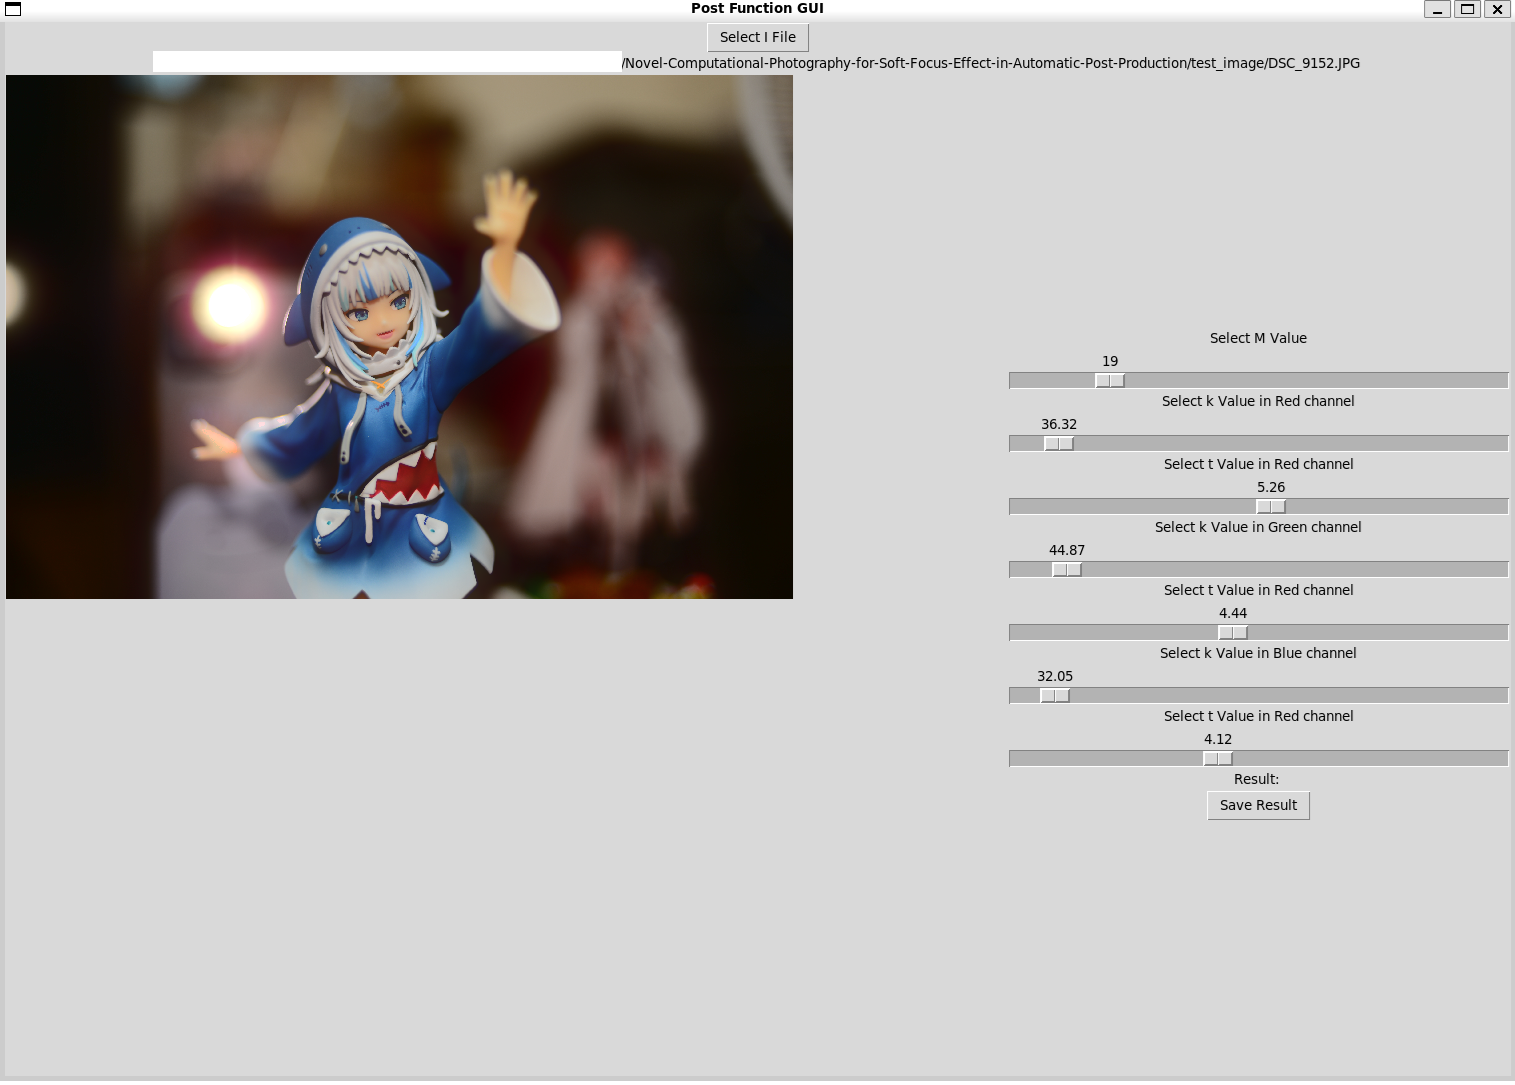
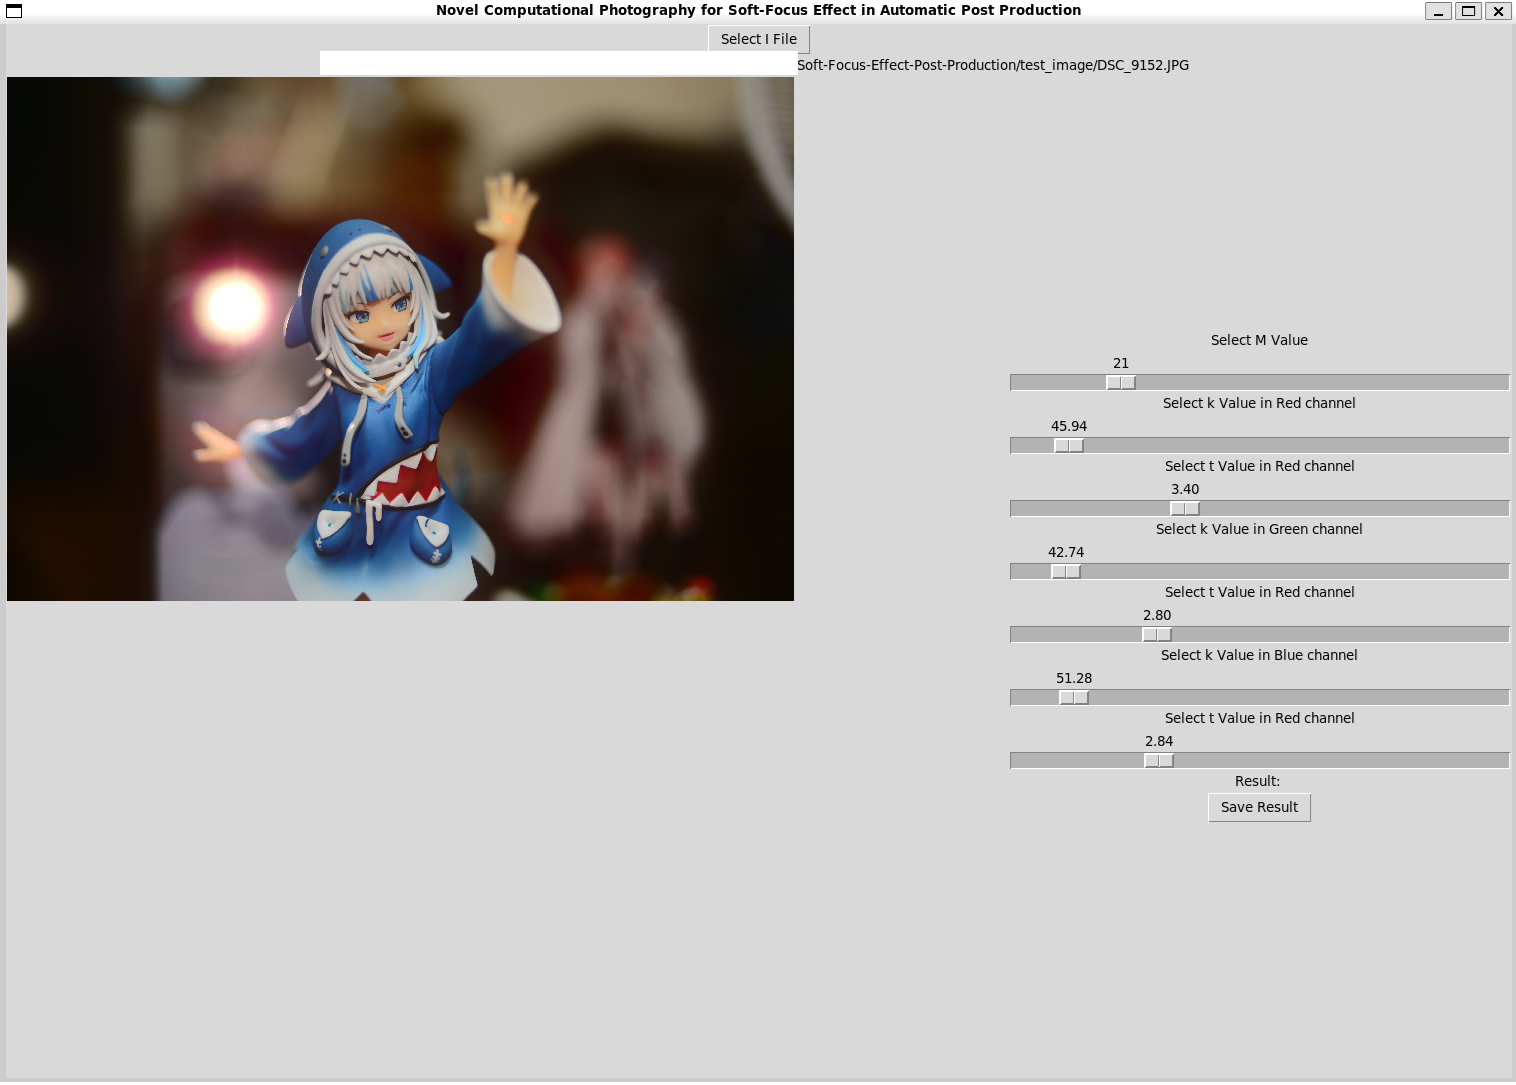
update image and correct typo

diff --git a/main.py b/main.py
@@ -134,14 +134,14 @@ def preprocess(I_file):
         amp_origin[amp_origin < 1] = 0
 
         def process_channel(i):
-            amp_origin[:, :, i] = fft_convolution(amp_origin[:, :, i], gaus_kernel)
+            amp_origin[:, :, i] = fft_convolution(
+                amp_origin[:, :, i], gaus_kernel)
 
         with ThreadPoolExecutor() as executor:
             executor.map(process_channel, range(amp_origin.shape[2]))
         # for i in range(amp_origin.shape[2]):
         #     amp_origin[:, :, i] = fft_convolution(
         #         amp_origin[:, :, i], gaus_kernel)
-            
 
         mask_origin = I.copy()
         mask_origin[mask_origin < 1] = 0
@@ -308,7 +308,8 @@ def select_I_file():
 
 if __name__ == '__main__':
     root = tk.Tk()
-    root.title("Post Function GUI")
+    root.title(
+        "Novel Computational Photography for Soft-Focus Effect in Automatic Post Production")
 
     I_button = tk.Button(root, text="Select I File", command=select_I_file)
     I_button.pack()
